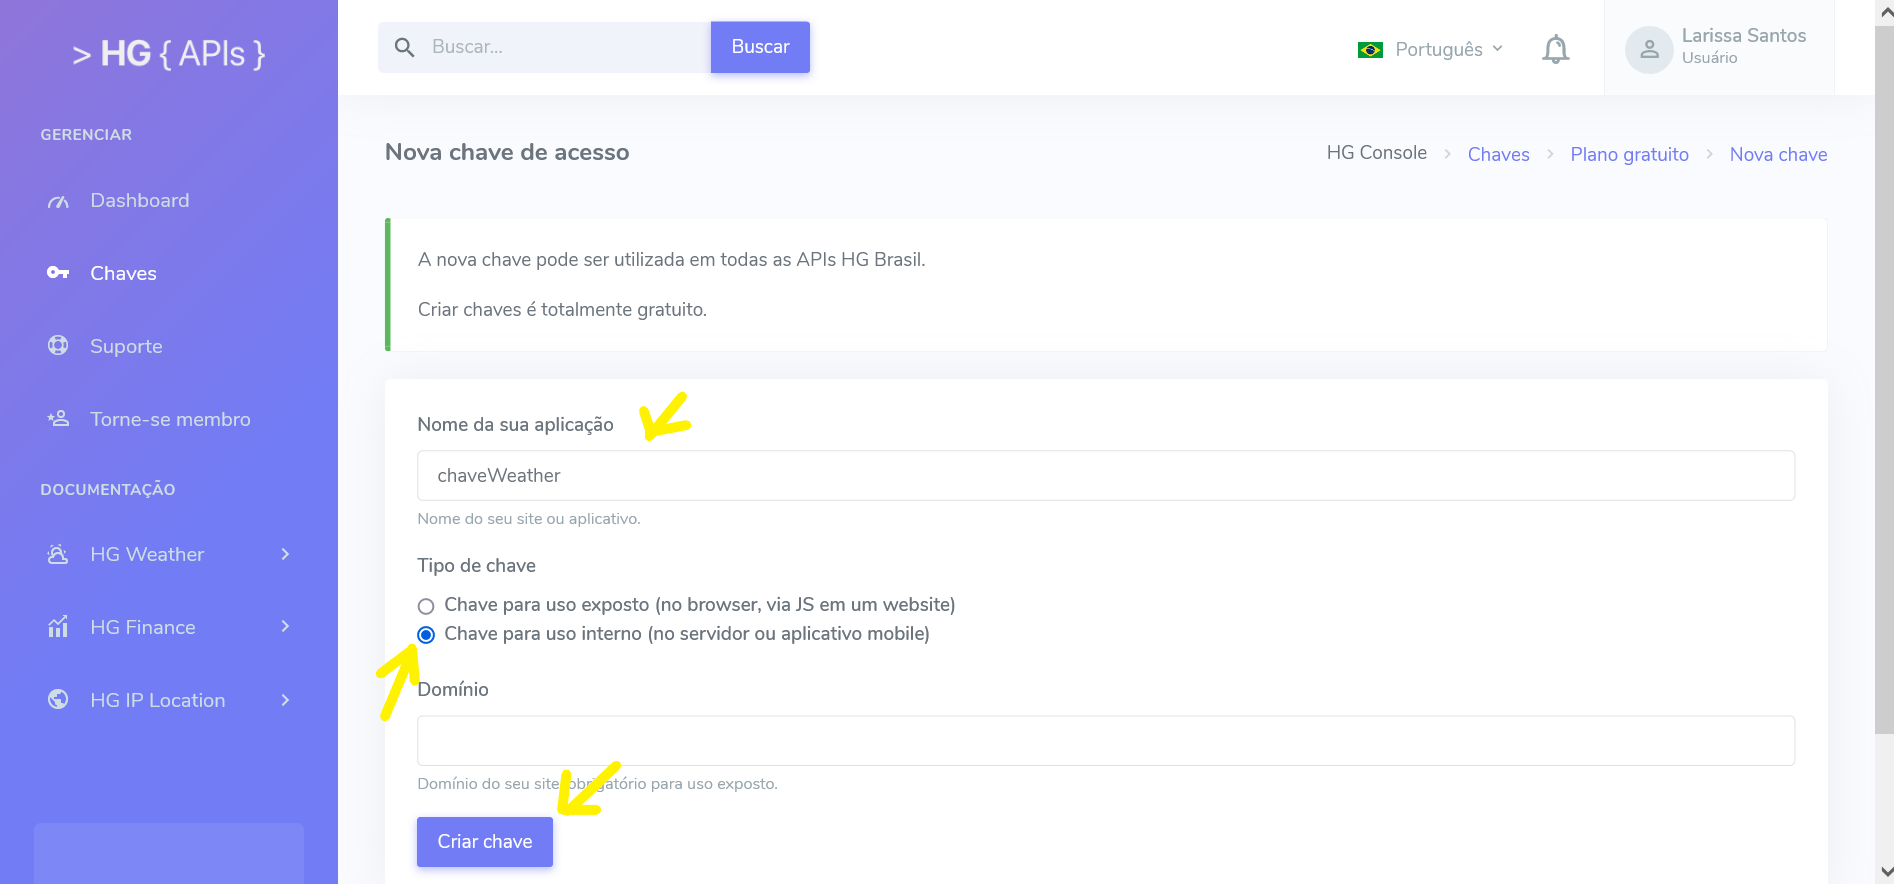
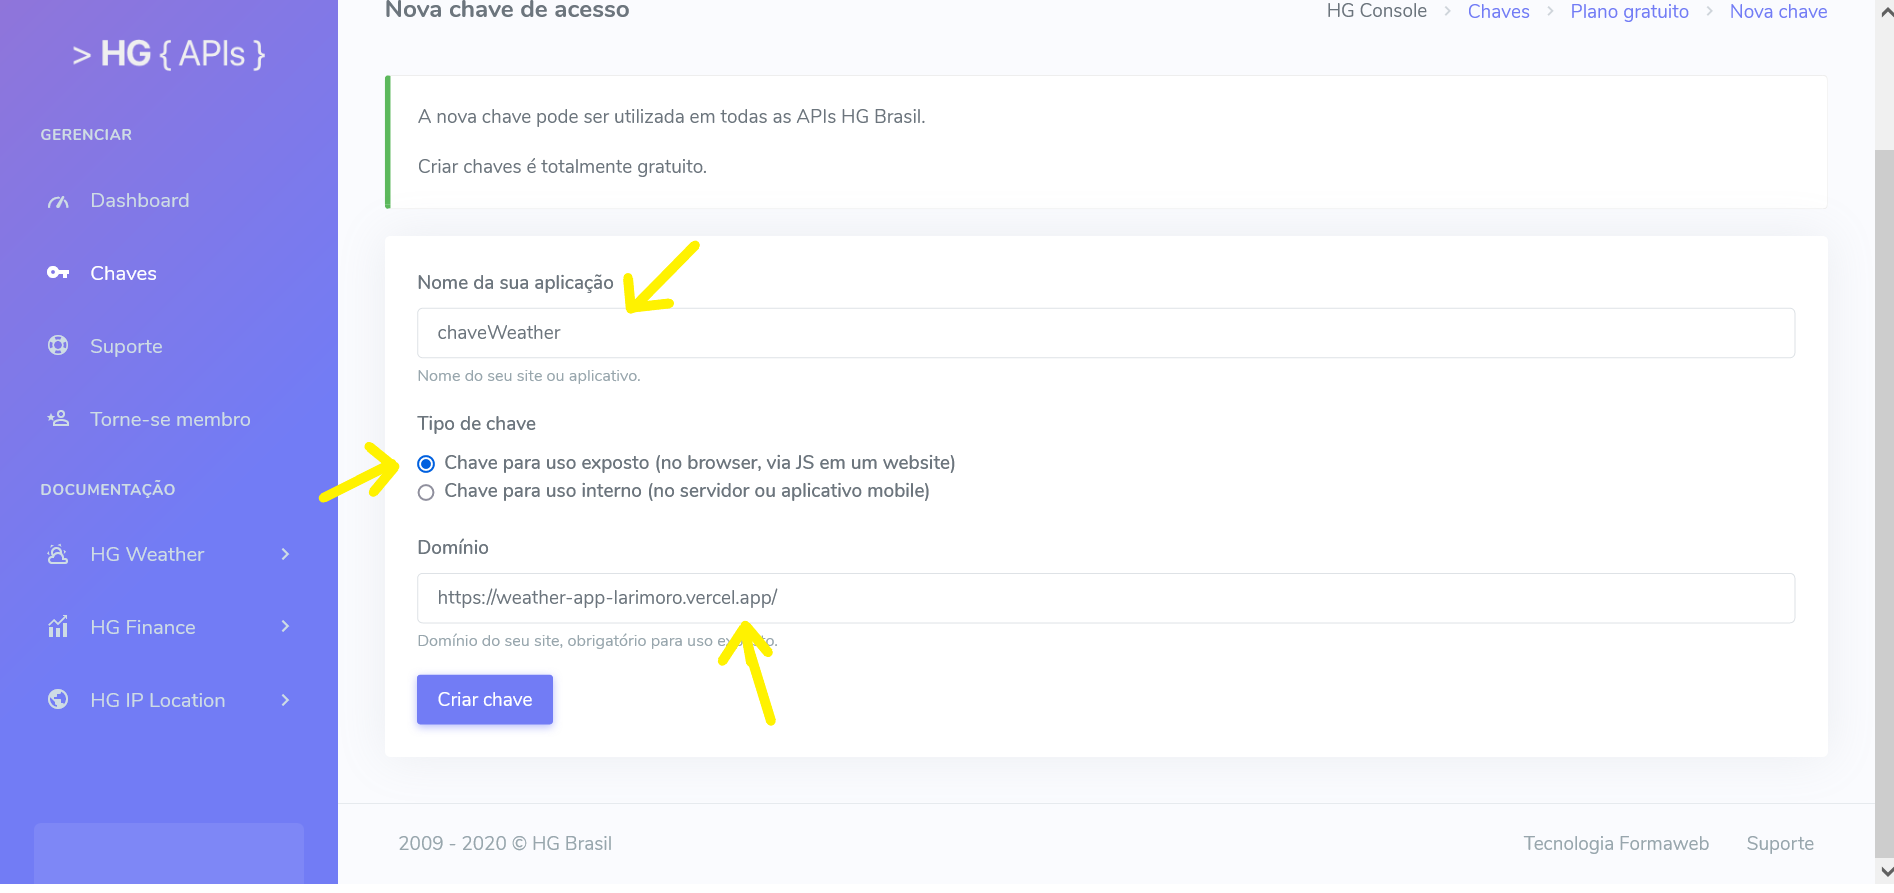
[UPDATE] Adiciona pagina de ajuda

diff --git a/src/pages/Help.js b/src/pages/Help.js
@@ -1,9 +1,12 @@
 import '../App.css';
+import { Link } from 'react-router-dom'
+
 export default function Help() {
     return (
         <div className="row">
             <div className="weather_form row">
                 <div className="col-md-12 weather_form-header">
+                <Link to="/">Voltar</Link>
                     <h1>Ajuda</h1>
                     <p>Para que a consulta seja realizada, é necessario criar uma chave gratuita em: <a href='https://hgbrasil.com/status/weather'>https://hgbrasil.com/status/weather</a></p>
                 </div>
@@ -18,7 +21,7 @@ export default function Help() {
                             <li className='weather_help-list'> Após acessar, clique  no item "Chaves" do menu lateral<img className="full" alt='site' src='images/help/1.png' /></li>
                             <li className='weather_help-list'> Nesta tela estarão listadas todas as suas chaves e seus status. Nesta etapa, clique em "Criar Nova Chave" <img className="full" alt='site' src='images/help/2.png' /></li>
                             <li className='weather_help-list'> Escolha a opção gratuita para criar uma chave. Esta opção possui um limite de requisições, e dado este numero será necessario criar outra ou mudar para a versão paga. No nosso caso, a gratuita ja serve para o funcionamento <img className="full" alt='site' src='images/help/3.png' /></li>
-                            <li className='weather_help-list'> Escolha um nome para sua chave, e sem seguida a opção de uso interno. Apenas estas duas configurações são suficientes. Em seguida, clique em "Criar chave"<img className="full" alt='site' src='images/help/4.png' /></li>
+                            <li className='weather_help-list'> Escolha um nome para sua chave, selecione o "Tipo de chave" como "uso exposto" e cole o link da aplicação no campo "Domínio". Em seguida, clique em "Criar chave"<img className="full" alt='site' src='images/help/4.png' /></li>
                             <li className='weather_help-list'> Pronto! Sua chave será exibida como na imagem. Copie ela para usar em nossa aplicação  <img className="full" alt='site' src='images/help/5.png' /></li>
                             <li className='weather_help-list'> De volta a aplicação, cole a chave no campo indicado juntamente com os outros dados de sua pesquisa. Clique em  "Procurar" e visualize o resultado!<img className="full" alt='site' src='images/help/6.png' /></li>
 

diff --git a/src/pages/Home.js b/src/pages/Home.js
@@ -3,6 +3,7 @@ import React, { useState } from "react"
 import HeaderWeather from '../components/HeaderWeather';
 import ItemBox from '../components/ItemBox';
 import BoxMessage from '../components/BoxMessage';
+import { Link } from 'react-router-dom'
 import axios from 'axios';
 export default function Home() {
     const [weather, setWeathers] = useState([]);
@@ -31,7 +32,9 @@ export default function Home() {
             <div className="weather_form row">
                 <div className="col-md-12 weather_form-header">
                     <h2>Consulta de temperatura</h2>
-                    <p>Para que a consulta seja realizada, é necessario criar uma chave gratuita em: <a href='https://hgbrasil.com/status/weather'>https://hgbrasil.com/status/weather</a></p>
+                    <p>Para que a consulta seja realizada, é necessario criar uma chave gratuita em: 
+                        <a href='https://hgbrasil.com/status/weather'>https://hgbrasil.com/status/weather</a>.<br />
+                        Caso precise de ajuda, acesse nosso <Link to="/help">passo a passo</Link> </p>
                     <small>{error}</small>
                 </div>
                 <form onSubmit={(info) => {
